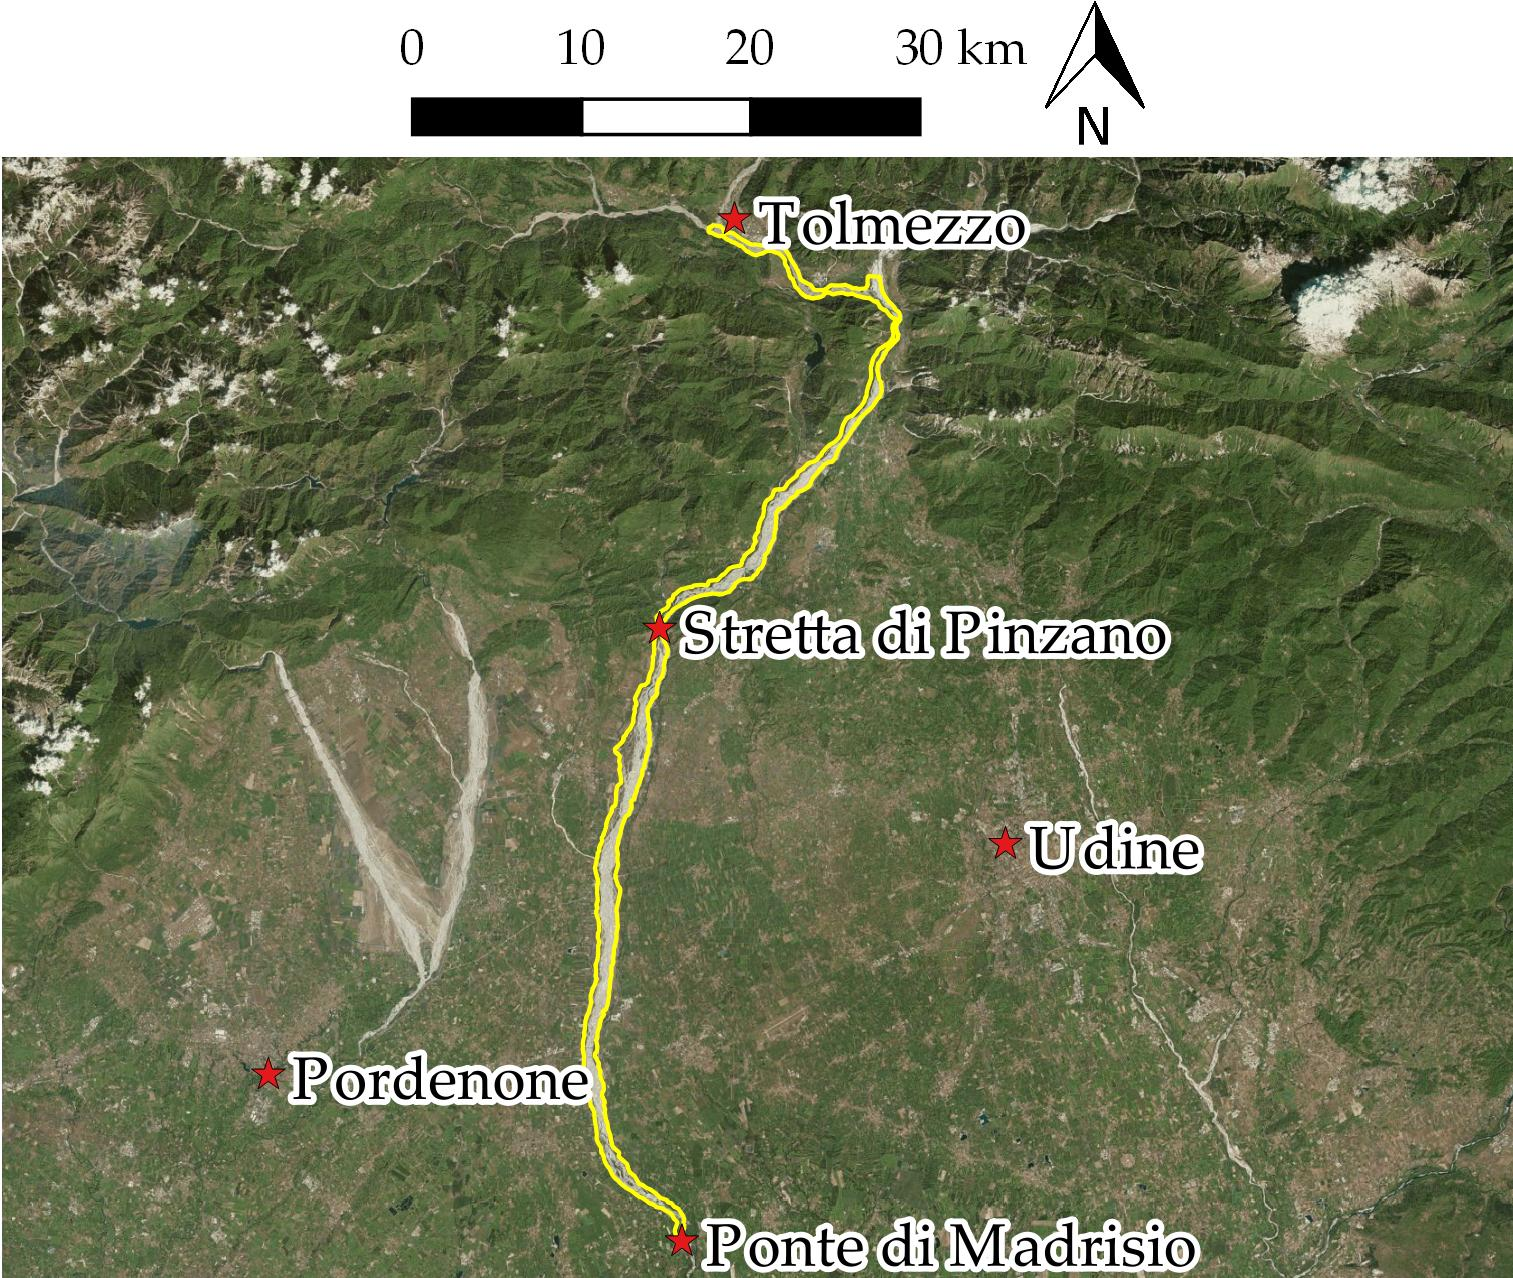
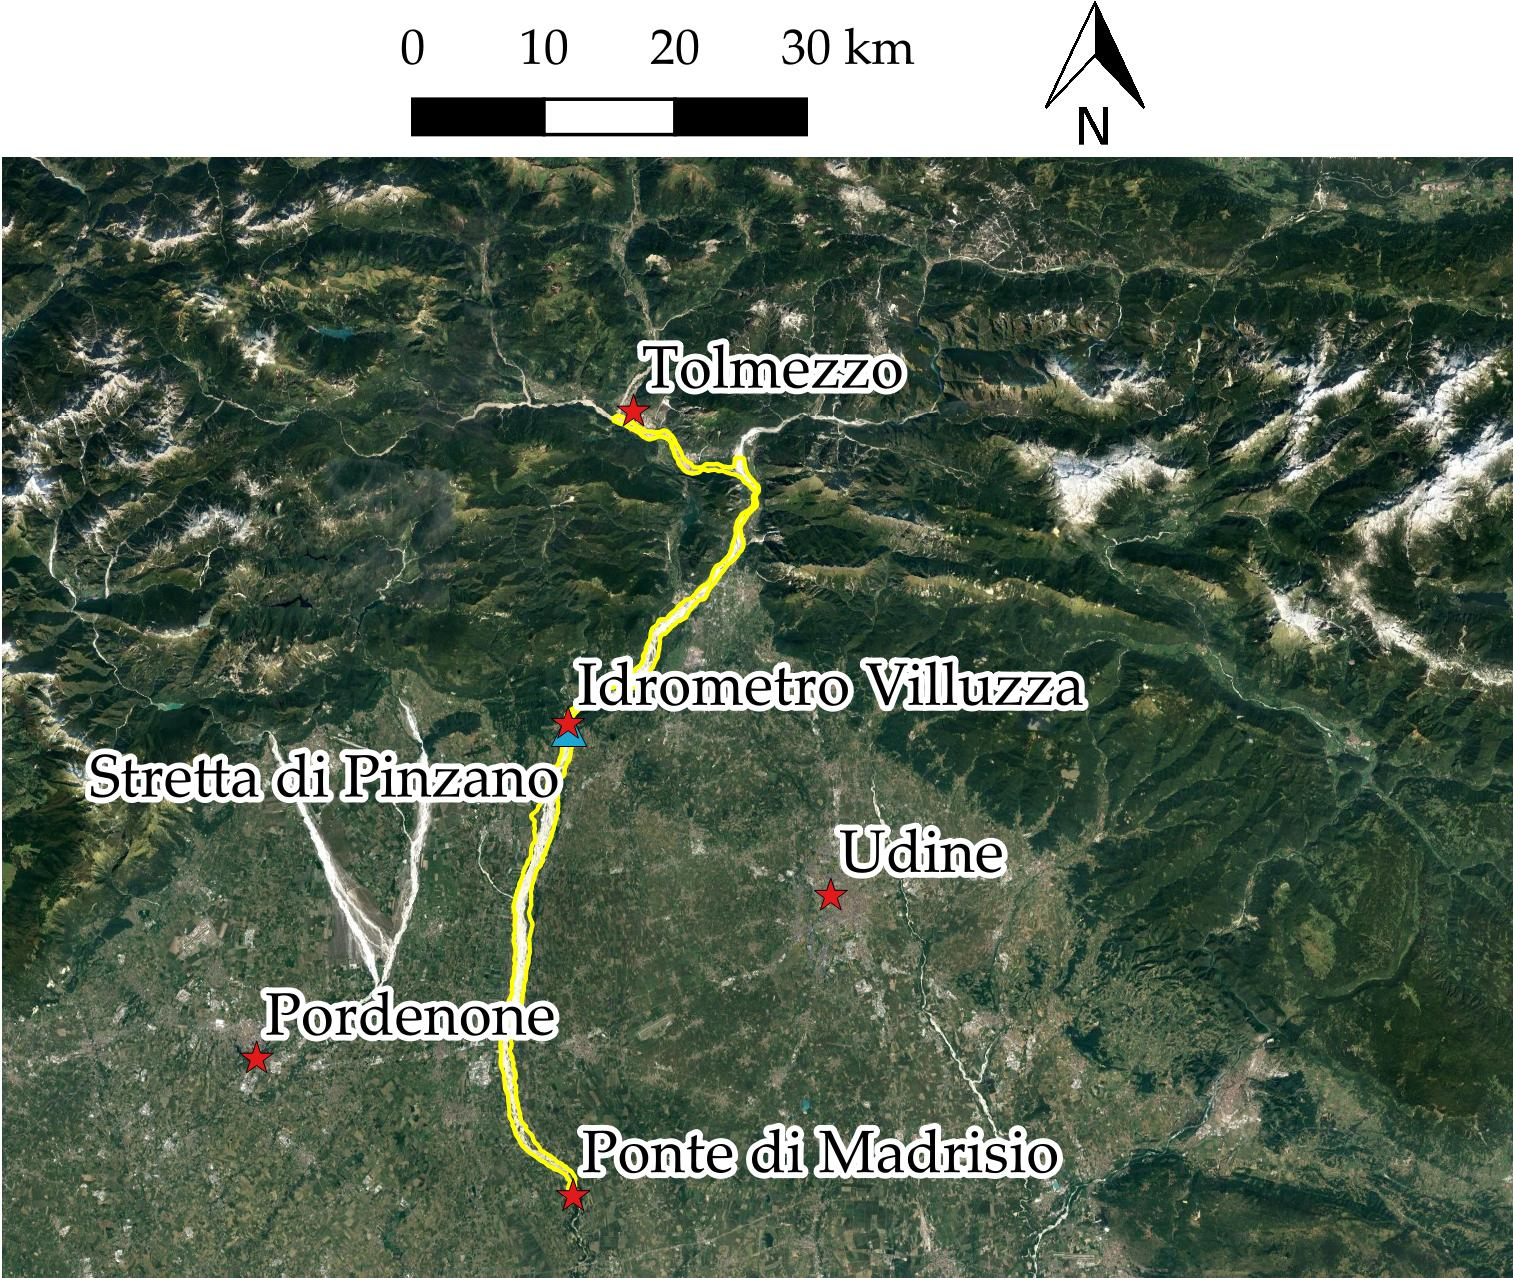
Fix+New: new images, sat images and affl in intro

diff --git a/capitoli/1-introduzione.tex b/capitoli/1-introduzione.tex
@@ -5,8 +5,6 @@ In via previsionale si cerca di rispondere all'esigenza di stimare in anticipo g
 \\
 Inoltre si trovano traiettorie evolutive per quanto riguarda la larghezza e la percentuale di isole rispetto all'alveo attivo, anche confrontando i dati ottenuti per un tratto di qualche chilometro con alcuni risultati da letteratura; si ottengono relazioni tra la forza della corrente (\emph{stream power}) e la quantità massima di isole presenti.
 %Inoltre si trovano valori soglia del livello del pelo libero per l'erosione della vegetazione.
-%\\
-%Dalla quantificazione dell'erosione della vegetazione dovuta alle piene, della quantità di legno in alveo e di un tasso di crescita della vegetazione si tenta di costruire un bilancio di materia vegetale a scala di evento di piena.
 
 Si analizzano immagini satellitari e ortofoto al fine di distinguere la parte dell'alveo ricoperta da vegetazione (\vref{fig:esempio-isola-1}) e gli elementi legnosi (tronchi e accumuli di legno, \vref{fig:esempio-accumulo-1}).
 
@@ -62,28 +60,6 @@ Il regime fluviale che ne risulta è di tipo \emph{flashy} pluvio-nivale con pie
 
 Il tratto studiato è quello intrecciato multicanale compreso tra Tolmezzo e Madrisio (\vref{fig:overview,fig:overview-sat}). 
 
-In questo tratto nei pressi del paese di Pinzano è presente una stretta causata dall'affioramento di strati rocciosi che riduce la larghezza da diverse centinaia di metri a poco più di \SI{100}{\m}.
-Questo restringimento assieme all'innalzamento dello strato di roccia che si trova sotto il letto del fiume induce l'acqua presente nella falda in alveo a risalire: si assiste al fenomeno dell'\emph{upwelling}. 
-Similmente, a valle della stretta dove l'alveo non è più confinato e il letto roccioso sprofonda nel sottosuolo, l'acqua torna ad infiltrarsi nella ghiaia che forma il letto (\emph{downwelling}) fino a portare il fiume in condizioni di secca in certi tratti quando non ci sono piene.
-\\
-L'\emph{upwelling} e il \emph{downwelling} sono fenomeni rilevanti durante i periodi di magra: certi tratti a valle della stretta di Pinzano possono essere in condizioni di secca, privi completamente di acqua, la quale scorre tutta nel sottosuolo e riemerge quando la morfologia fluviale diventa transizionale vicino al ponte di Madrisio.
-Durante le piene questi fenomeni sono invece irrilevanti: l'acqua che emerge o che si infiltra contribuisce minimamente alla portata fluente.
-
-Nel tratto di studio vi sono diversi affluenti; vengono qui elencati da monte (Tolmezzo) fino a valle (Madrisio):
-%
-\begin{itemize}
-	\item poco a valle di Tolmezzo c'è il Fella in sinistra idrografica (\SI{706}{\kilo\m\tothe{2}});
-	\item all'altezza del paese di Venzone, in sinistra idrografica, sfocia il torrente Venzonassa (\SI{39}{\kilo\m\tothe{2}});
-	\item qualche chilometro a monte del paese di Cornino in destra idrografica c'è il Leale (\SI{100}{\kilo\m\tothe{2}}), le cui acque riempiono i canali incisi del Tagliamento che in magra sono quasi secchi;
-	\item in corrispondenza dell'isola di Cornino in sinistra idrografica il Ledra (\SI{75}{\kilo\m\tothe{2}}) riporta nel corso del Tagliamento le acque che si sono infiltrate nella piana di Osoppo;
-	\item immediatamente a monte della stretta di Pinzano in destra idrografica si getta l'Arzino (\SI{123}{\kilo\m\tothe{2}});
-	\item infine, una decina di chilometri più a valle della stretta in destra idrografica si incontra il Cosa (\SI{160}{\kilo\m\tothe{2}}).
-\end{itemize}
-%
-Il contributo di questi affluenti in termini di portata non è trascurabile; tuttavia è raro che eventi di piena abbiano luogo contemporaneamente in tutti i sottobacini tanto da incrementare sensibilmente il livello d'acqua nel Tagliamento a valle degli affluenti durante una piena.
-Si ritiene pertanto che conoscere il livello d'acqua in un punto del Tagliamento sia sufficientemente rappresentativo per descrivere l'entità di una piena in tutto il tratto di studio; inoltre si assume che la portata fluente sia proporzionale all'area drenante in ogni sezione del fiume.
-%TODO immagine degli affluenti
-
 %
 \begin{figure}
 	\centering
@@ -96,12 +72,44 @@ Si ritiene pertanto che conoscere il livello d'acqua in un punto del Tagliamento
 \begin{figure}
 	\centering
 	\includegraphics[width=\textwidth]{files/overview_tratto_sat.jpeg}
-	\caption[inquadramento dell'area di studio]{inquadramento dell'area di studio (contornata in giallo).}
+	\caption[inquadramento dell'area di studio]{inquadramento dell'area di studio (contornata in giallo).
+	\\
+	Map data: Google, Digital Globe.}
 	\label{fig:overview-sat}
 \end{figure}
 
+In questo tratto nei pressi del paese di Pinzano è presente una stretta causata dall'affioramento di strati rocciosi che riduce la larghezza da diverse centinaia di metri a poco più di \SI{100}{\m}.
+Questo restringimento assieme all'innalzamento dello strato di roccia che si trova sotto il letto del fiume induce l'acqua presente nella falda in alveo a risalire: si assiste al fenomeno dell'\emph{upwelling}. 
+Similmente, a valle della stretta dove l'alveo non è più confinato e il letto roccioso sprofonda nel sottosuolo, l'acqua torna ad infiltrarsi nella ghiaia che forma il letto (\emph{downwelling}) fino a portare il fiume in condizioni di secca in certi tratti quando non ci sono piene.
+\\
+L'\emph{upwelling} e il \emph{downwelling} sono fenomeni rilevanti durante i periodi di magra: certi tratti a valle della stretta di Pinzano possono essere in condizioni di secca, privi completamente di acqua, la quale scorre tutta nel sottosuolo e riemerge quando la morfologia fluviale diventa transizionale vicino al ponte di Madrisio.
+Durante le piene questi fenomeni sono invece irrilevanti: l'acqua che emerge o che si infiltra contribuisce minimamente alla portata fluente.
+
+Nel tratto di studio vi sono diversi affluenti (\vref{fig:affluenti}); vengono qui elencati da monte (Tolmezzo) fino a valle (Madrisio):
+%
+\begin{itemize}
+	\item poco a valle di Tolmezzo c'è il Fella in sinistra idrografica (\SI{706}{\kilo\m\tothe{2}});
+	\item all'altezza del paese di Venzone, in sinistra idrografica, sfocia il torrente Venzonassa (\SI{39}{\kilo\m\tothe{2}});
+	\item qualche chilometro a monte del paese di Cornino in destra idrografica c'è il Leale (\SI{100}{\kilo\m\tothe{2}}), le cui acque riempiono i canali incisi del Tagliamento che in magra sono quasi secchi;
+	\item in corrispondenza dell'isola di Cornino in sinistra idrografica il Ledra (\SI{75}{\kilo\m\tothe{2}}) riporta nel corso del Tagliamento le acque che si sono infiltrate nella piana di Osoppo;
+	\item immediatamente a monte della stretta di Pinzano in destra idrografica si getta l'Arzino (\SI{123}{\kilo\m\tothe{2}});
+	\item infine, una decina di chilometri più a valle della stretta in destra idrografica si incontra il Cosa (\SI{160}{\kilo\m\tothe{2}}).
+\end{itemize}
+%
+\begin{figure}
+	\centering
+	\includegraphics[width=\textwidth]{files/overview_affluenti.jpeg}
+	\caption[principali affluenti nel tratto oggetto di studio]{principali affluenti nel tratto oggetto di studio (contornato in giallo).
+	\\
+	Map data: Google, Digital Globe.}
+	\label{fig:affluenti}
+\end{figure}
+%
+Il contributo di questi affluenti in termini di portata non è trascurabile; tuttavia è raro che eventi di piena abbiano luogo contemporaneamente in tutti i sottobacini tanto da incrementare sensibilmente il livello d'acqua nel Tagliamento a valle degli affluenti durante una piena.
+Si ritiene pertanto che conoscere il livello d'acqua in un punto del Tagliamento sia sufficientemente rappresentativo per descrivere l'entità di una piena in tutto il tratto di studio; inoltre si assume che la portata fluente sia proporzionale all'area drenante in ogni sezione del fiume.
 
 
+%TODO riguarda questa sezione
 \section{Stato dell'arte e valore aggiunto del presente lavoro}
 In letteratura sono presenti numerosi lavori focalizzati su un tratto di circa~\SI{12}{\kilo\m} di lunghezza a monte della stretta di Pinzano; solitamente questi hanno utilizzato immagini ad alta risoluzione provenienti da voli aerei, le quali hanno una bassa risoluzione temporale (meno di una decina di immagini su un periodo di studio di diversi decenni).
 \\
@@ -196,9 +204,10 @@ Sono state considerate le bande del \emph{Near-InfraRed}~(NIR) e del \emph{Red}~
 
 Le ortofoto dell'estate~2011 provengono dal \href{http://www.pcn.minambiente.it/mattm/}{Portale Cartografico Nazionale del Ministero dell'Ambiente e della tutela del territorio e del mare}\footnote{\texttt{http://www.pcn.minambiente.it/mattm/}};
 le ortofoto del~2013 sono state ottenute da volo \href{http://www.cgrspa.com/}{CGR}\footnote{\texttt{http://www.cgrspa.com/}} su commissione; 
-le ortofoto del~2017 sono state ottenute da \href{https://www.google.com/earth/}{Google Earth}\footnote{\texttt{https://www.google.com/earth/}}.
+le ortofoto del~2017 sono state ottenute da \href{https://www.google.com/earth/}{Google Earth}\footnote{\texttt{https://www.google.com/earth/}} (Map data: Google, Digital Globe, European Space Imaging).
 
-Assieme alla ortofoto del~2013 è stato effettuato un rilievo LiDAR, grazie al quale sono a disposizione un DEM (\emph{Digital Elevation Model}) e un CSM (\emph{Canopy Surface Model}): il primo consiste di una mappa con le quote del suolo; il secondo è una mappa di altezza della vegetazione.
+Nei mesi di Maggio~2005, Agosto~2010 ed Ottobre~2013 (congiuntamente all'ortofoto) è stato effettuato un rilievo aereo LiDAR, grazie al quale sono a disposizione un DEM (\emph{Digital Elevation Model}) e un CSM (\emph{Canopy Surface Model}) per ogni anno: il primo consiste di una mappa con le quote del suolo; il secondo è una mappa di altezza della vegetazione.
+Per questi rilievi si ringraziano rispettivamente il UK Natural Environment Research Council, Nicola Surian dell'Università di Padova (progetto CARIPARO) e Yasuhiro Takemon dell'Università di Kyoto.
 
 Il DEM del~2009 proviene dal \href{http://irdat.regione.fvg.it/CTRN/ricerca-cartografia/}{Portale Cartografico della regione autonoma Friuli Venezia Giulia}\footnote{\texttt{http://irdat.regione.fvg.it/CTRN/ricerca-cartografia/}}.
 
@@ -221,7 +230,7 @@ La \vref{tab:date-orto-sat} mostra le date e la dimensione delle celle delle imm
 	\input{graphics/plots/livelli}
 	\input{graphics/plots/livelli_2m+imm}
 	\caption[livelli idrometrici e foto aeree - satellitari]{in alto il livello idrometrico medio giornaliero (in blu) presso l'idrometro di Villuzza. 
-	In basso un ingrandimento per i livelli medi giornalieri superiori a~\SI{2}{\m}. Le linee indicano le immagini satellitari e le ortofoto considerate (\AST{} in magenta, ortofoto in arancione, \Pl{} in verde~acqua, \Se{} in azzurro, G-Earth in verde, \WV{} in nero).}
+	In basso un ingrandimento per i livelli medi giornalieri superiori a~\SI{2}{\m}. Le linee indicano le immagini satellitari e le ortofoto considerate (\AST{} in rosso, ortofoto, rilievi aerei LiDAR e G-Earth in verde, \Pl{} in nero, \Se{} in azzurro, \WV{} in viola).}
 	\label{graph:livelli-orto-sat}
 \end{figure}
 %%%
@@ -229,7 +238,7 @@ La \vref{tab:date-orto-sat} mostra le date e la dimensione delle celle delle imm
 	\centering
 	\begin{tabular}{c c S[table-format=2.2]}
 		\toprule
-		Data		&	Fonte		&	\multicolumn{1}{c}{Dim. celle \si{[\m]}}	\\
+		Data		&	Tipo		&	\multicolumn{1}{c}{Risoluzione \si{[\m]}}	\\
 		\midrule	
 		2000-09-17		&	\AST{}		&	15	\\
 		2001-06-07		&	\AST{}		&	15	\\
@@ -237,18 +246,21 @@ La \vref{tab:date-orto-sat} mostra le date e la dimensione delle celle delle imm
 		2002-06-12		&	\AST{}		&	15	\\
 		2003-11-29		&	\AST{}		&	15	\\
 		2004-10-14		&	\AST{}		&	15	\\
+		2005-05			&	Rilievo aereo LiDAR	&	2	\\
 		2005-08-30		&	\AST{}		&	15	\\
 		2006-07-16		&	\AST{}		&	15	\\
 		2007-09-21		&	\AST{}		&	15	\\
 		2008-07-05		&	\AST{}		&	15	\\
 		2009			&	DEM			&	20	\\
 		2009-07-08		&	\AST{}		&	15	\\
+		2010-08			&	Rilievo aereo LiDAR	&	1	\\
 		2010-09-29		&	\AST{}		&	15	\\
 		2011-06-26/07-02	&	Ortofoto	&	1	\\
 		2011-10-02		&	\AST{}		&	15	\\
 		2012-08-01		&	\AST{}		&	15	\\
 		2013-09-05		&	\AST{}		&	15	\\
-		2013-10-22		&	Ortofoto e rilievo LiDAR	&	0.2	\\
+		2013-10-22		&	Ortofoto	&	0.2	\\
+		2013-10-22		&	Rilievo aereo LiDAR	&	1	\\
 		2014-09-08		&	\AST{}		&	15	\\
 		2014-10-31		&	\Pl{}	&	0.5	\\
 		2015-08-13		&	\Pl{}	&	0.5	\\
@@ -262,7 +274,7 @@ La \vref{tab:date-orto-sat} mostra le date e la dimensione delle celle delle imm
 		2018-09-16		&	\Se{}	&	10	\\
 		\bottomrule
 	\end{tabular}
-	\caption{data e dimensione delle celle delle immagini satellitari e delle ortofoto utilizzate.}
+	\caption{data e risoluzione (dimensione delle celle) delle immagini satellitari, delle ortofoto, del DEM e dei rilievi aerei LiDAR utilizzati.}
 	\label{tab:date-orto-sat}
 \end{table}
 

diff --git a/graphics/plots/livelli_2m+imm.tex b/graphics/plots/livelli_2m+imm.tex
@@ -18,61 +18,67 @@
 		grid = major,
 		]
 		\addplot+ 
-			[magenta, mark=x, semithick, style=solid, mark=x]
+			[red, mark=x, semithick, style=solid, mark=x]
 			coordinates {(2000-09-17, 2)(2000-09-17, 3.7)};
 		\addplot+ 
-			[magenta, semithick, style=solid, mark=x]
+			[red, semithick, style=solid, mark=x]
 			coordinates {(2001-06-07, 2)(2001-06-07, 3.7)};
 		\addplot+
-        	[magenta, semithick, style=solid, mark=x]
+        	[red, semithick, style=solid, mark=x]
         	coordinates {(2002-05-18, 2)(2002-05-18, 3.7)};
 		\addplot+
-        	[magenta, semithick, style=solid, mark=x]
+        	[red, semithick, style=solid, mark=x]
         	coordinates {(2002-06-12, 2)(2002-06-12, 3.7)};
 		\addplot+
-        	[magenta, semithick, style=solid, mark=x]
+        	[red, semithick, style=solid, mark=x]
         	coordinates {(2003-06-22, 2)(2003-06-22, 3.7)};
 		\addplot+
-        	[magenta, semithick, style=solid, mark=x]
+        	[red, semithick, style=solid, mark=x]
         	coordinates {(2004-10-14, 2)(2004-10-14, 3.7)};
 		\addplot+
-        	[magenta, semithick, style=solid, mark=x]
+        	[green, semithick, style=solid, mark=x]
+        	coordinates {(2005-05-01, 2)(2005-05-01, 3.7)};
+		\addplot+
+        	[red, semithick, style=solid, mark=x]
         	coordinates {(2005-08-30, 2)(2005-08-30, 3.7)};
 		\addplot+
-        	[magenta, semithick, style=solid, mark=x]
+        	[red, semithick, style=solid, mark=x]
         	coordinates {(2006-07-16, 2)(2006-07-16, 3.7)};
 		\addplot+
-        	[magenta, semithick, style=solid, mark=x]
+        	[red, semithick, style=solid, mark=x]
         	coordinates {(2007-09-21, 2)(2007-09-21, 3.7)};
 		\addplot+
-        	[magenta, semithick, style=solid, mark=x]
+        	[red, semithick, style=solid, mark=x]
         	coordinates {(2008-07-05, 2)(2008-07-05, 3.7)};
 		\addplot+
-        	[magenta, semithick, style=solid, mark=x]
+        	[red, semithick, style=solid, mark=x]
         	coordinates {(2009-07-08, 2)(2009-07-08, 3.7)};
 		\addplot+
-        	[magenta, semithick, style=solid, mark=x]
+        	[green, semithick, style=solid, mark=x]
+        	coordinates {(2010-08-01, 2)(2010-08-01, 3.7)};
+		\addplot+
+        	[red, semithick, style=solid, mark=x]
         	coordinates {(2010-09-29, 2)(2010-09-29, 3.7)};
 		\addplot+
-        	[orange!85!black, semithick, style=solid, mark=x]
+        	[green, semithick, style=solid, mark=x]
         	coordinates {(2011-07-01, 2)(2011-07-01, 3.7)};
 		\addplot+
-        	[magenta, semithick, style=solid, mark=x]
+        	[red, semithick, style=solid, mark=x]
         	coordinates {(2012-08-01, 2)(2012-08-01, 3.7)};
 		\addplot+
-        	[magenta, semithick, style=solid, mark=x]
+        	[red, semithick, style=solid, mark=x]
         	coordinates {(2013-09-05, 2)(2013-09-05, 3.7)};
 		\addplot+
-        	[orange!85!black, semithick, style=solid, mark=x]
+        	[green, semithick, style=solid, mark=x]
         	coordinates {(2013-10-22, 2)(2013-10-22, 3.7)};
 		\addplot+
-        	[magenta, semithick, style=solid, mark=x]
+        	[red, semithick, style=solid, mark=x]
         	coordinates {(2014-09-08, 2)(2014-09-08, 3.7)};
 		\addplot+
-        	[teal, semithick, style=solid, mark=x]
+        	[black, semithick, style=solid, mark=x]
         	coordinates {(2014-10-31, 2)(2014-10-31, 3.7)};
        	\addplot+
-        	[teal, semithick, style=solid, mark=x]
+        	[black, semithick, style=solid, mark=x]
         	coordinates {(2015-08-13, 2)(2015-08-13, 3.7)};
 		\addplot+
         	[cyan, semithick, style=solid, mark=x]
@@ -93,7 +99,7 @@
         	[green, semithick, style=solid, mark=x]
         	coordinates {(2017-07-07, 2)(2017-07-07, 3.7)};
        	\addplot+
-        	[black, semithick, style=solid, mark=x]
+        	[violet, semithick, style=solid, mark=x]
         	coordinates {(2018-06-15, 2)(2018-06-15, 3.7)};
 		\addplot+
         	[cyan, semithick, style=solid, mark=x]
